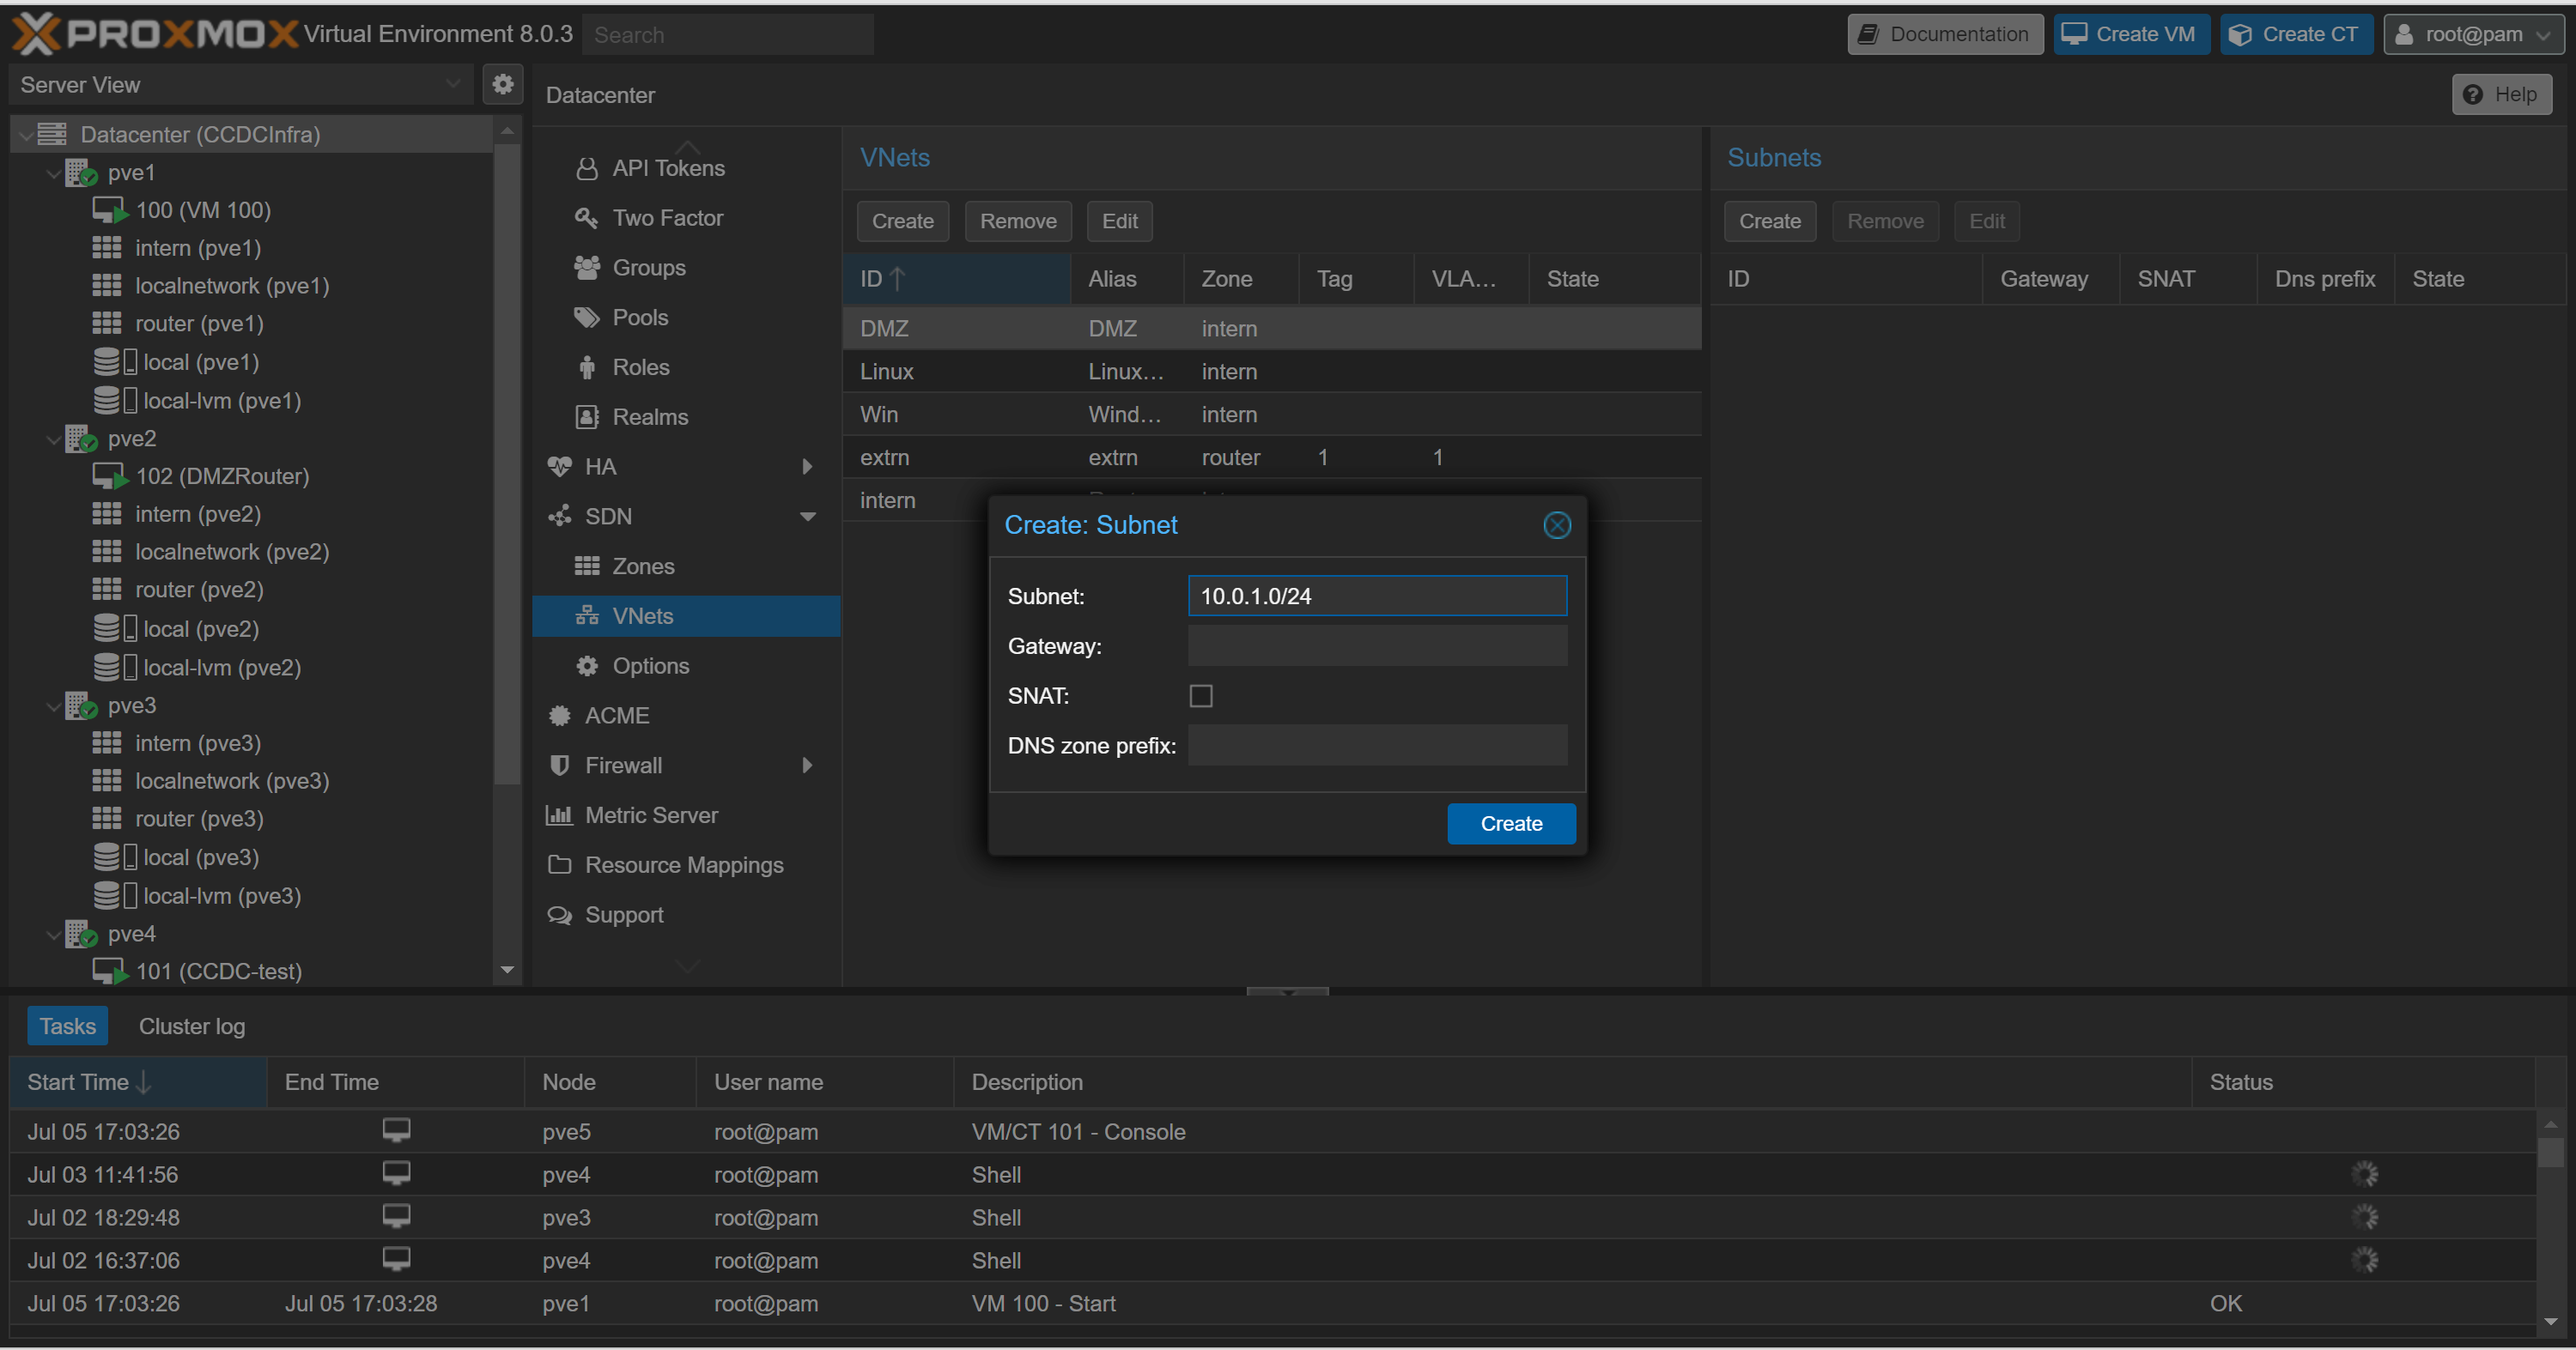
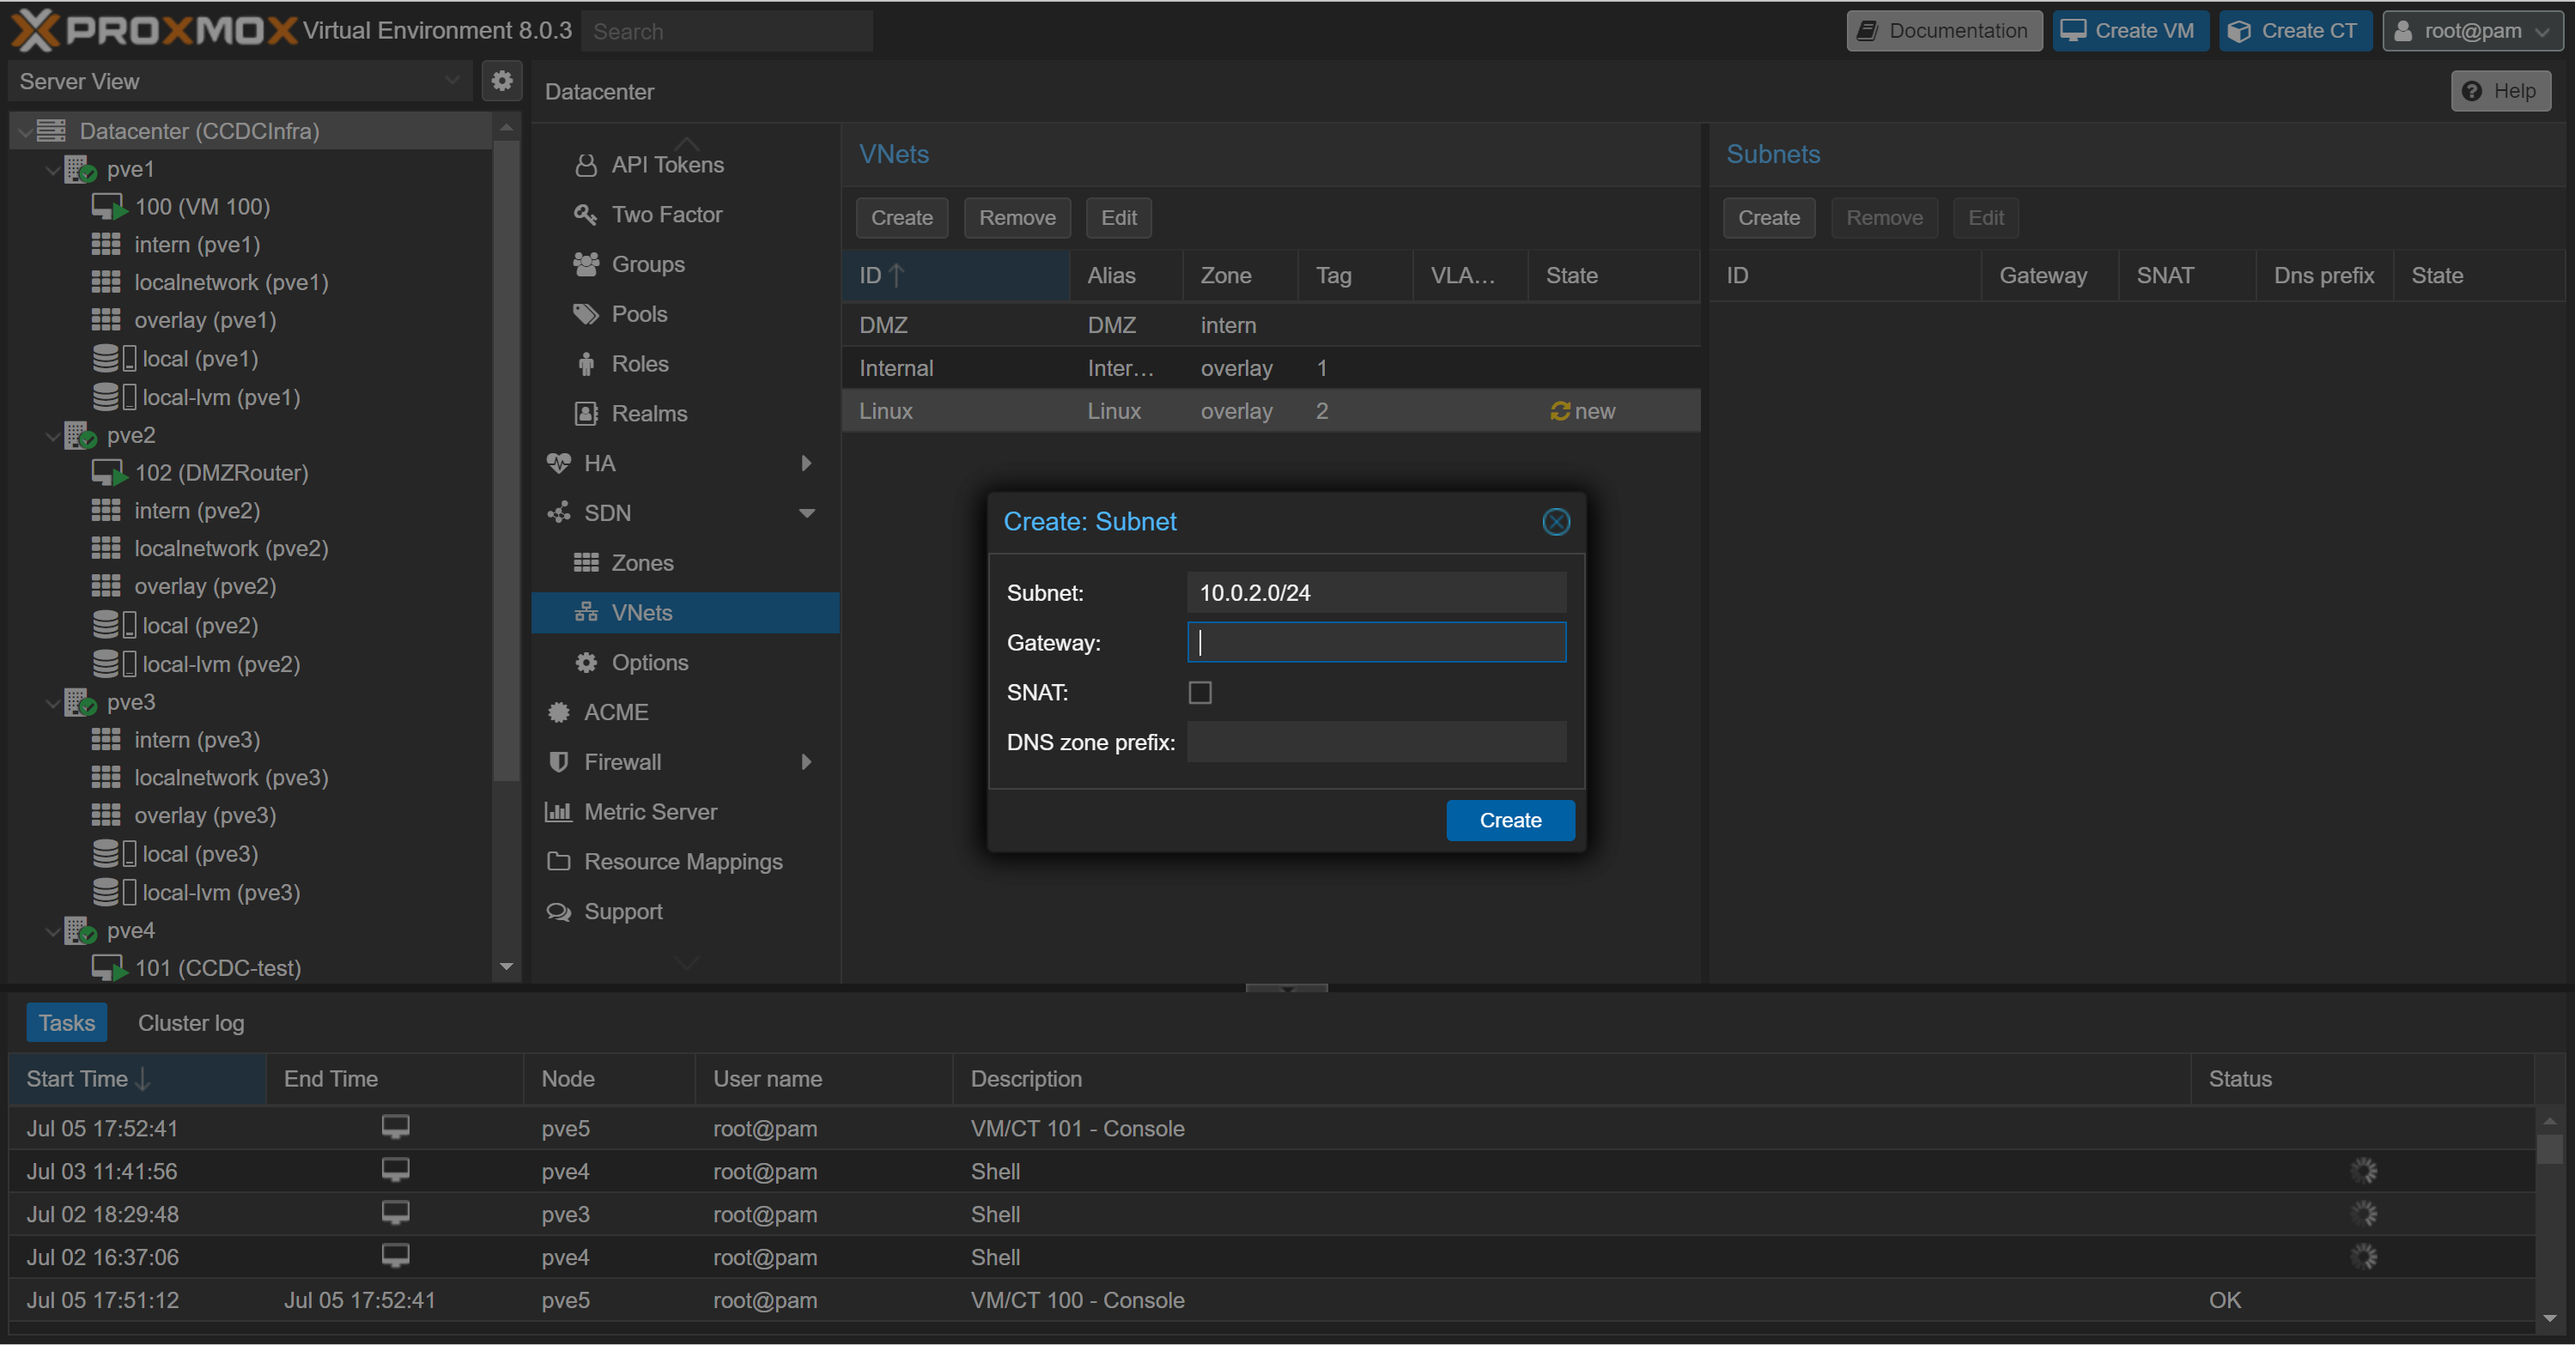
SDN

diff --git a/Network/Proxmox/SDN.md b/Network/Proxmox/SDN.md
@@ -30,25 +30,39 @@ Please refer to [Proxmox Readme](./../../Proxmox/README.md) to add the non-enter
 
     <img src="Images/SD3.png" width=800>
 
-4. Create a VLAN Zone 
-   *  <a href="https://pve.proxmox.com/pve-docs/chapter-pvesdn.html">Per Proxmox's SND documentation</a>: "A zone defines a virtually separated network", we need this in order to virtually connect the Proxmox hosts, allowing for the "Seamless" communication between nodes on the various networks. If we wish to utilize this properly VXLans are required, as they create an overlay network between the systems.
+4. Create a VXLan Zone 
+   *  <a href="https://pve.proxmox.com/pve-docs/chapter-pvesdn.html">Per Proxmox's SND documentation</a>: "A zone defines a virtually separated network", we need this in order to virtually connect the Proxmox hosts, allowing for the "Seamless" communication between nodes on the various networks. If we wish to utilize this properly VXLans are required, as they create an overlay network between the systems allowing for their communication!
 
     <img src="Images/SD4.png" width=800>
 
-5. Fill in the information. They limit the ID to 10 characters
-    * The DNS information appears to be a drop down. I was unable to configure this.
+5. Fill in the information. They limit the ID to 10 characters!
+    * The DNS information appears to be a drop down. I was unable to configure this as we did not configure a Proxmox DNS server.
+    * The Peer Addresses are the IP addresses of the Nodes in the Proxmox Cluster. This is a comma separated list!
+    * The Nodes should all be selected (Dropdown)
 
     <img src="Images/SD5.png" width=400>
 
-6. Navigate to the VNet menu, create an VNet as shown below. As we are using a simple network, no VNet TAG is needed.
+6. Navigate to the VNet menu, create an VNet as shown below. As we are using a simple network. Ensure each VNet TAG is unique!
 
-    <img src="Images/SD6.png" width=400>
+    <img src="Images/SD6.png" width=800>
 
 7. Repeat 6 for all desired networks (In our case 4)
-8. Click on the VNet, and create a subnet for each. Example shown below
-    <img src="Images/SD6-c.png" width=800>
-9.  Navigate to the SDN main page again, hit the **Apply** button
-    <img src="Images/SD7.png" width=800>
-10. Now we have networks that devices can be attached to
+8. Click on the VNet, and create a subnet for each. Example shown below (Optionally enter Gateway info)
 
+    <img src="Images/SD6-c.png" width=800>
+
+9.  Navigate to the SDN main page again, hit the **Apply** button
+
+    <img src="Images/SD7.png" width=800>
+
+10. Now we have networks that devices can be attached to as follows
+
+    <img src="Images/SD8.png" width=800>
+
+11. Now they should be able to communicate!
+    * This assumes they have IPs
+      * This can be solved by manually assigning static IPS
+      * We can also (preferably) setup the PFSense machines!
+
+12. **NOTICE**: We are going to use the vmbr0 (Default bridge) for the WAN on the DMZ router. This is so we get a cyber range IP. All devices have the interface so it will be fine!
 
